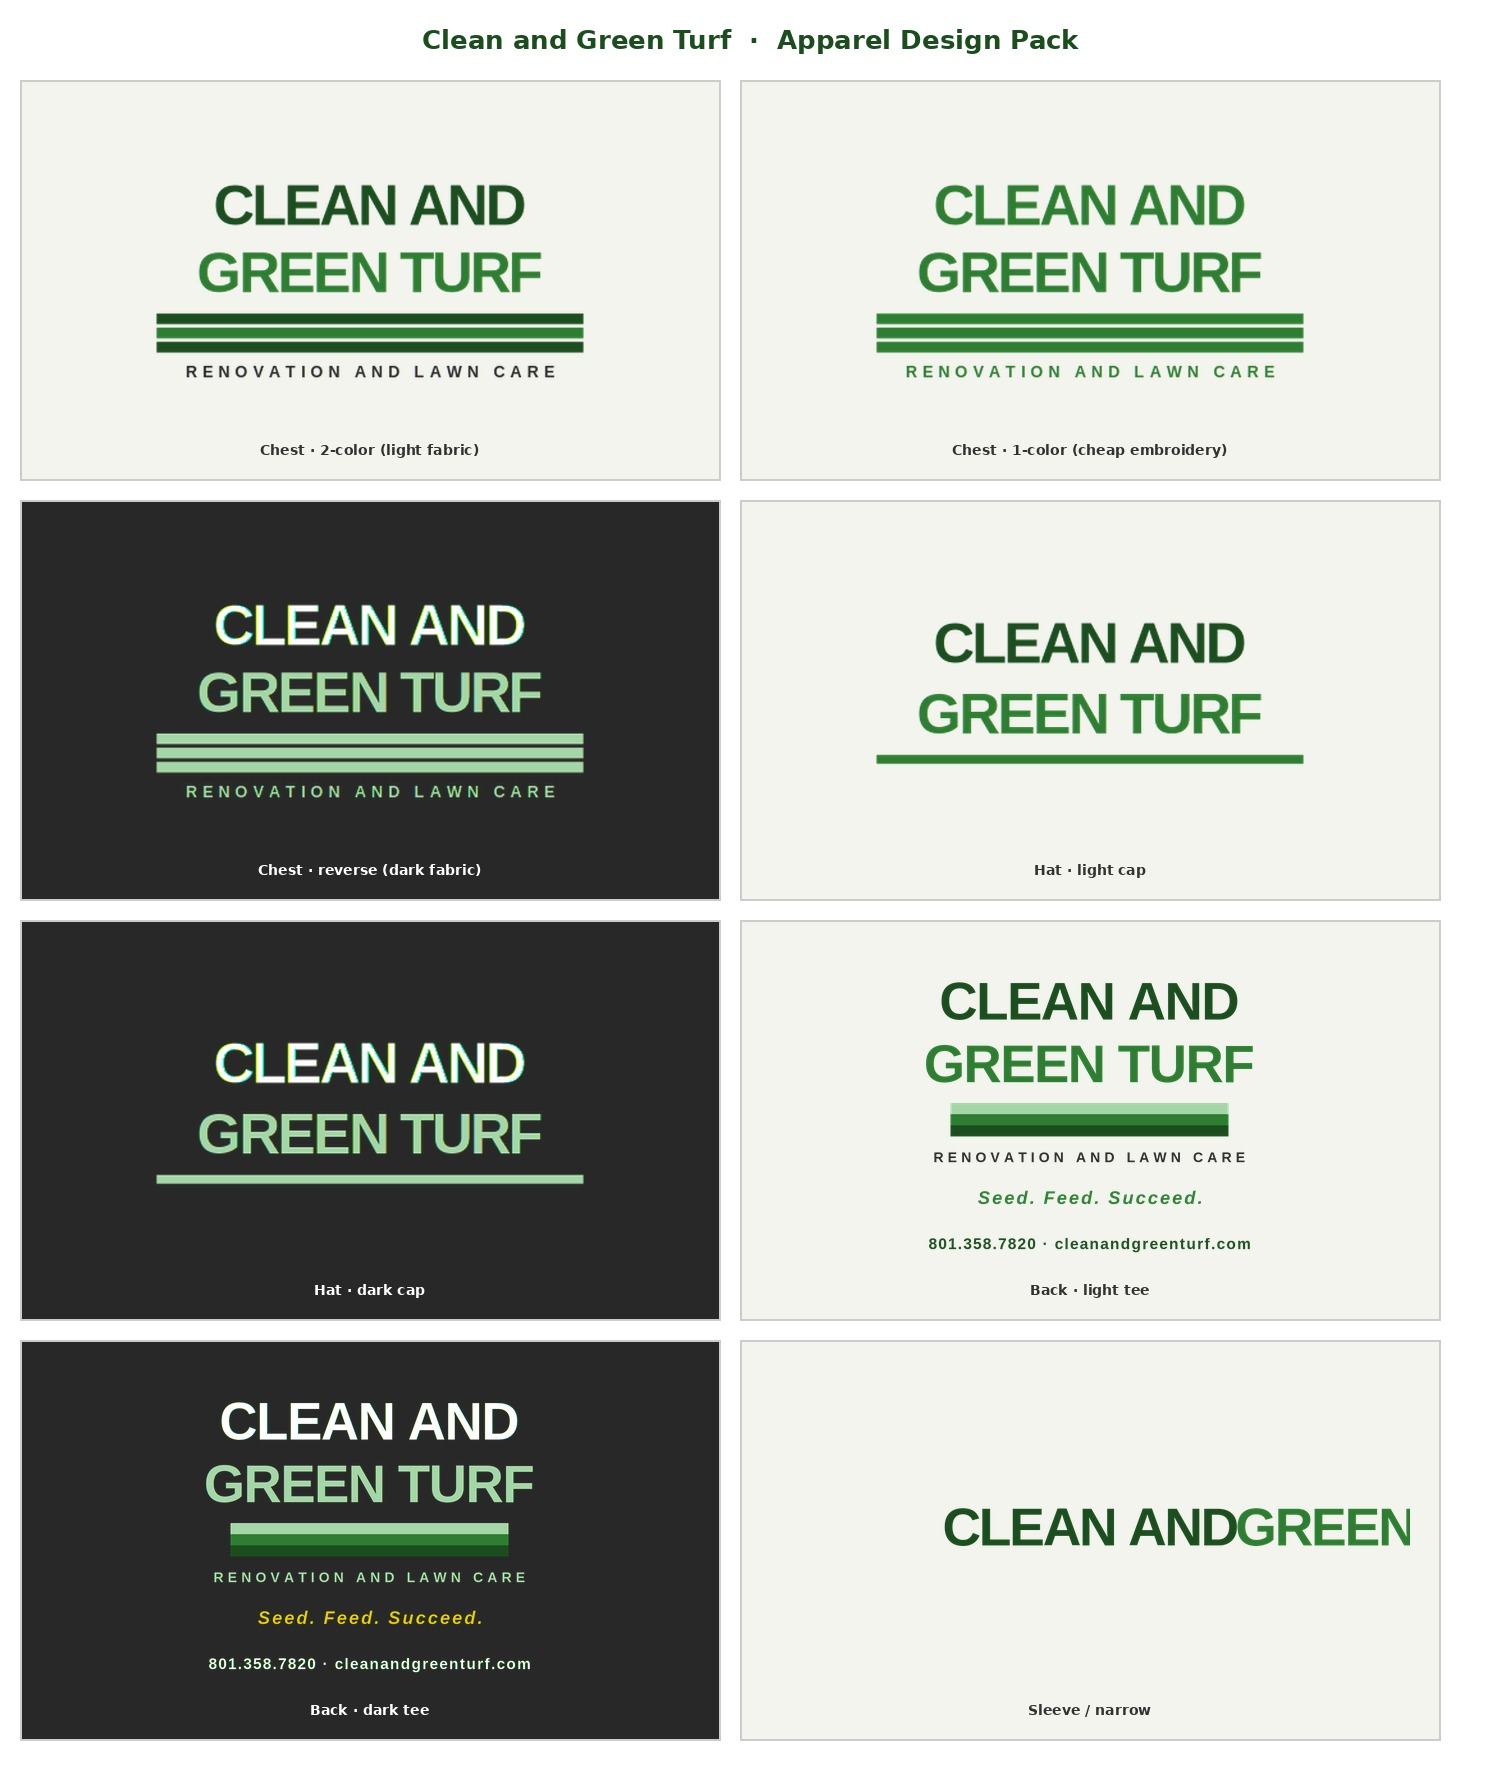
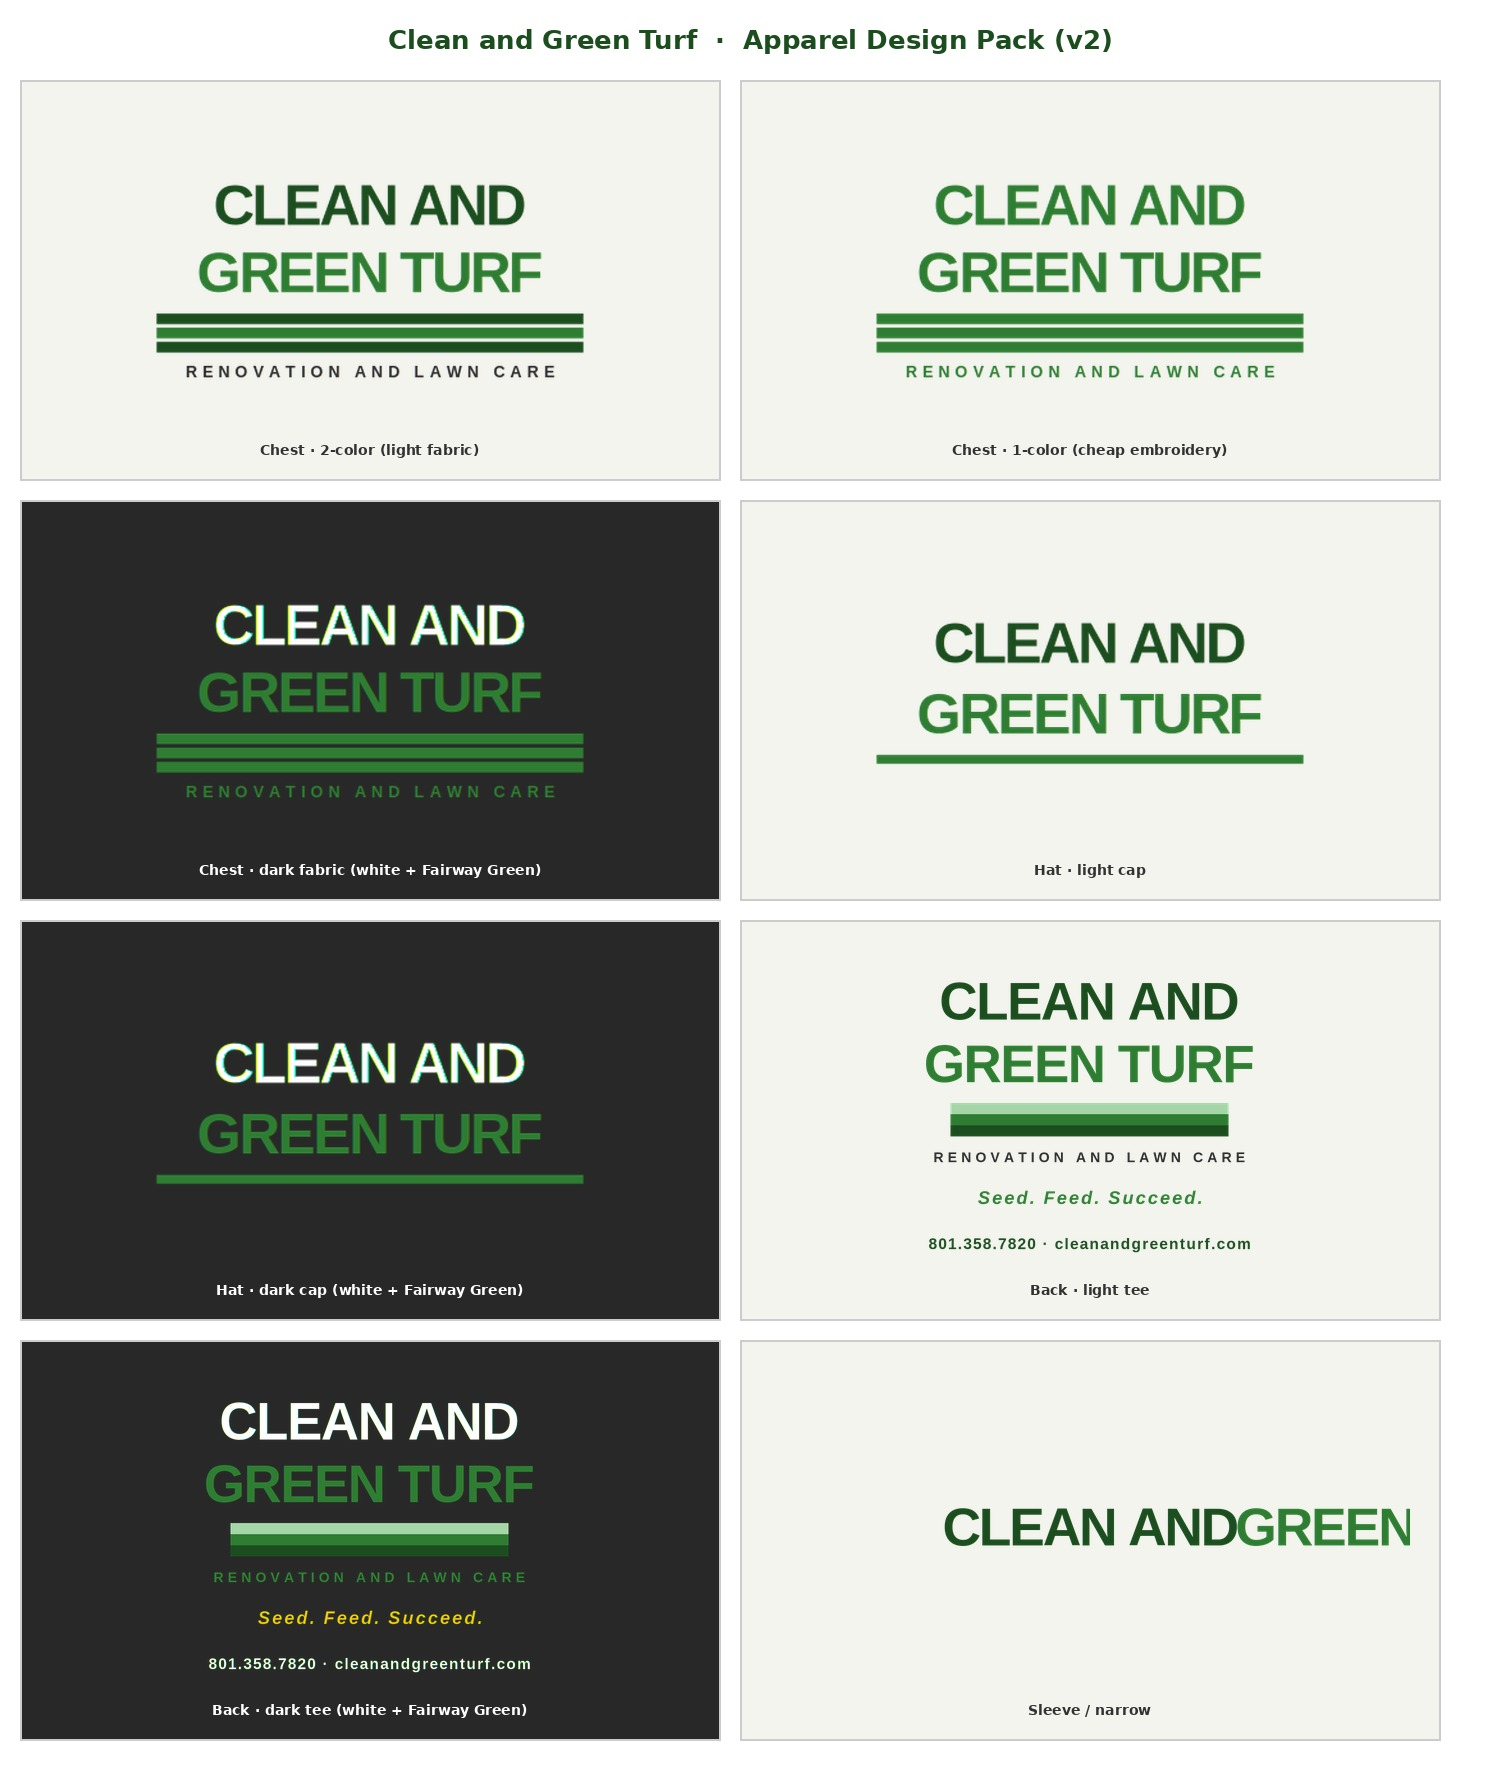
Apparel dark-fabric variants: Fairway Green (medium) instead of Fresh Cut (bright)
Per Ryan: the 'GREEN TURF' line on dark-fabric variants now uses
Fairway Green #2E7D32 (the brand primary green) instead of the
brighter Fresh Cut #A5D6A7. Better brand consistency with the
light-fabric versions where Fairway Green is also used.

Updated 3 dark-fabric files:
- chest_embroidery_reverse_white.svg
- hat_embroidery_reverse_white.svg
- back_screen_print_reverse_white.svg

All Fresh Cut elements (wordmark, stripes, descriptor) switched to
Fairway Green. Sun Yellow tagline accent on back-screen-print
unchanged. White CLEAN AND + phone/website unchanged.

COLOR_SPECS.md updated:
- Removed 'forest green' from dark-fabric fabric recommendations
- Added warning callout: Fairway Green will blend on forest-green
  fabric. For forest-green base garments, ask the shop to substitute
  Fresh Cut (#A5D6A7) for visibility.
- Recommended dark-fabric colors now: charcoal, black, heather gray

APPAREL_DESIGN_PACK_PREVIEW.png rebuilt to show v2 variants.

diff --git a/branding/apparel/COLOR_SPECS.md b/branding/apparel/COLOR_SPECS.md
@@ -22,11 +22,13 @@ All RGB hex values and closest Pantone matches.
 | Garment | Recommended fabric color | Design file to use |
 |---|---|---|
 | **Polo (sales / customer-facing)** | Heather gray, cream/off-white, or limestone | `chest_embroidery_2color.svg` |
-| **Polo (premium option)** | Forest green or charcoal | `chest_embroidery_reverse_white.svg` |
-| **T-shirt (fieldwork)** | Charcoal heather or dark gray (hides stains) | `back_screen_print_reverse_white.svg` |
+| **Polo (premium dark option)** | **Charcoal / black** (NOT forest green) | `chest_embroidery_reverse_white.svg` |
+| **T-shirt (fieldwork)** | Charcoal heather or black (hides stains) | `back_screen_print_reverse_white.svg` |
 | **T-shirt (warmer weather)** | Lighter heather gray | `back_screen_print.svg` |
-| **Hat (year-round)** | Forest green or black | `hat_embroidery_reverse_white.svg` |
+| **Hat (year-round dark)** | **Black or charcoal** (NOT forest green) | `hat_embroidery_reverse_white.svg` |
 | **Hat (summer option)** | Cream or heather gray | `hat_embroidery.svg` |
+
+⚠ **About forest-green fabric:** The reverse/dark-fabric design uses **Fairway Green `#2E7D32`** for "GREEN TURF" — which is intentionally a medium-dark green to match brand identity. **This will not contrast well on forest-green shirts or hats** (same shade). If you want a forest-green base garment, ask the embroidery shop to substitute **Fresh Cut `#A5D6A7`** for visibility — same design, brighter green thread instead.
 
 ## Design files in this folder
 
